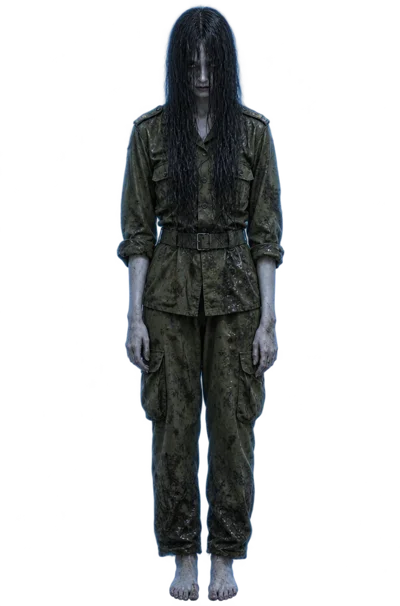
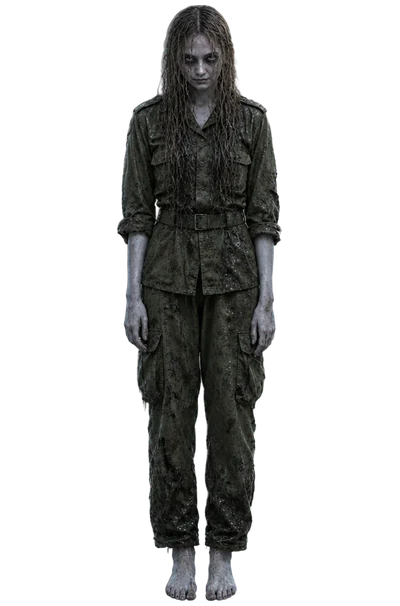
Ruth's photo and ghost redone from a reference photo
Same style as before (a worn military ID photo with a coffee stain, and
a full-body ghost in a wet uniform), now with her face. The photo URLs
carry the release version so browsers fetch the new images.

Claude-Session: https://claude.ai/code/session_01V6BQBvsNKBWiVbJBcyKj7k

Changed region(s): [[0.27, 0.0, 0.72, 1.0]]

diff --git a/yasmin/js/story.js b/yasmin/js/story.js
@@ -3,6 +3,7 @@ import * as THREE from 'three';
 import { locks, gateClosed, roomAt, toCell, lineOfSight, opaque } from './map.js';
 import * as T from './textures.js';
 import { TAPE_SPOTS, MAZE_GUIDE, tapeMesh, Ghost, missingPosterTex, loadTapes } from './ruth.js';
+const VER = new URL(import.meta.url).searchParams.get('v') || '0';
 
 const v3 = (x, y, z) => new THREE.Vector3(x, y, z);
 
@@ -95,7 +96,7 @@ const NOTES = {
 יום 35: רות ניסתה לברוח דרך המבוך. ניקיתי גם אותה.
 יום 40: יש חדש. הוא הולך עם נעליים על הרטוב.
 <span class="blood">הלילה אני מנקה אותו.</span>`,
-  missing: `<h3>מודעה על הקיר</h3><img src="img/ruth_photo.jpg" alt="">
+  missing: `<h3>מודעה על הקיר</h3><img src="img/ruth_photo.jpg?v=${VER}" alt="">
 <b>נעדרת: רות ל.</b>
 נראתה לאחרונה במשמרת לילה, ליד המבוך, לפני שלושה חודשים.
 ממישהו שראה אותה בלילה ההוא נשאר רק פתק: "היא הלכה יחפה".
@@ -191,7 +192,7 @@ export class Story {
     }
     this.candles = true;
     W.addEmitter({ x: J.X0 + 2, y: 1.1, z: J.Z1 - 1.5, color: 0xff8a3a, power: 3, dist: 6, flicker: 'candle', on: () => this.candles });
-    const loadImg = (src) => new Promise(r => { const im = new Image(); im.onload = () => r(im); im.src = src; });
+    const loadImg = (src) => new Promise(r => { const im = new Image(); im.onload = () => r(im); im.src = `${src}?v=${VER}`; });
     Promise.all(['img/photo_yasmin.jpg', 'img/photo_nevo.jpg', 'img/photo_labubu.jpg', 'img/photo_squash.jpg'].map(loadImg)).then(([py, pn, pl, ps]) => {
       const pin = (tex, x, y, z, ry, rz) => { const m = new THREE.Mesh(new THREE.PlaneGeometry(0.3, 0.36), new THREE.MeshStandardMaterial({ map: tex, roughness: 0.6 })); m.position.set(x, y, z); m.rotation.set(0, ry, rz); root.add(m); return m; };
       pin(T.photoFrameTex(py, 'אני ♥'), J.X0 + 0.02, 1.65, 5.0, Math.PI / 2, 0.05);

diff --git a/yasmin/index.html b/yasmin/index.html
@@ -30,24 +30,24 @@
 <link rel="preconnect" href="https://fonts.googleapis.com">
 <link rel="preconnect" href="https://fonts.gstatic.com" crossorigin>
 <link href="https://fonts.googleapis.com/css2?family=Heebo:wght@400;500;700;800&family=Karantina:wght@400;700&family=Amatic+SC:wght@700&family=Frank+Ruhl+Libre:wght@500;700&display=swap" rel="stylesheet">
-<link rel="stylesheet" href="css/style.css?v=8">
+<link rel="stylesheet" href="css/style.css?v=9">
 <script type="importmap">
 {
  "imports": {
   "three": "./vendor/three.module.min.js",
   "three/addons/": "./vendor/addons/",
-  "./js/audio.js": "./js/audio.js?v=8",
-  "./js/main.js": "./js/main.js?v=8",
-  "./js/map.js": "./js/map.js?v=8",
-  "./js/mechanics.js": "./js/mechanics.js?v=8",
-  "./js/player.js": "./js/player.js?v=8",
-  "./js/post.js": "./js/post.js?v=8",
-  "./js/ruth.js": "./js/ruth.js?v=8",
-  "./js/story.js": "./js/story.js?v=8",
-  "./js/textures.js": "./js/textures.js?v=8",
-  "./js/ui.js": "./js/ui.js?v=8",
-  "./js/world.js": "./js/world.js?v=8",
-  "./js/yasmin.js": "./js/yasmin.js?v=8"
+  "./js/audio.js": "./js/audio.js?v=9",
+  "./js/main.js": "./js/main.js?v=9",
+  "./js/map.js": "./js/map.js?v=9",
+  "./js/mechanics.js": "./js/mechanics.js?v=9",
+  "./js/player.js": "./js/player.js?v=9",
+  "./js/post.js": "./js/post.js?v=9",
+  "./js/ruth.js": "./js/ruth.js?v=9",
+  "./js/story.js": "./js/story.js?v=9",
+  "./js/textures.js": "./js/textures.js?v=9",
+  "./js/ui.js": "./js/ui.js?v=9",
+  "./js/world.js": "./js/world.js?v=9",
+  "./js/yasmin.js": "./js/yasmin.js?v=9"
  }
 }
 </script>
@@ -227,6 +227,6 @@
     </div>
   </div>
 </div>
-<script type="module" src="js/main.js?v=8"></script>
+<script type="module" src="js/main.js?v=9"></script>
 </body>
 </html>
